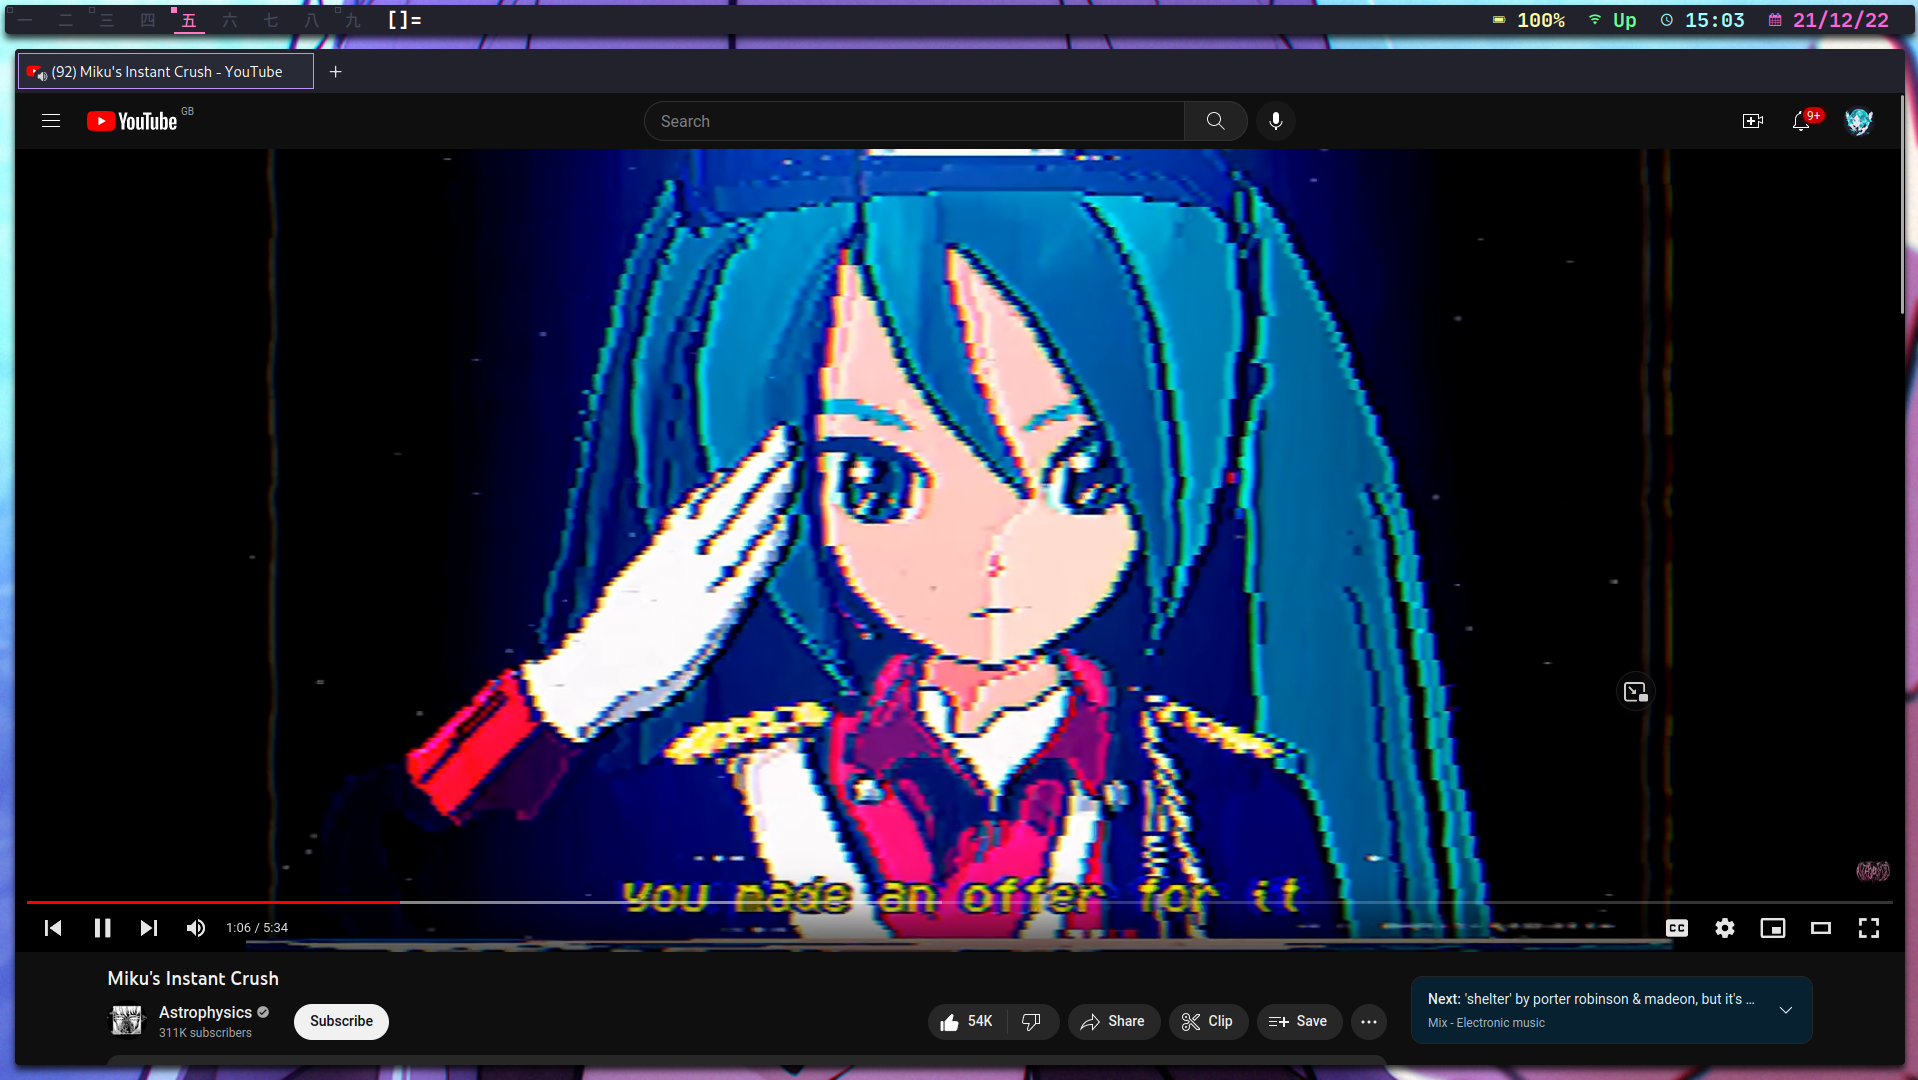
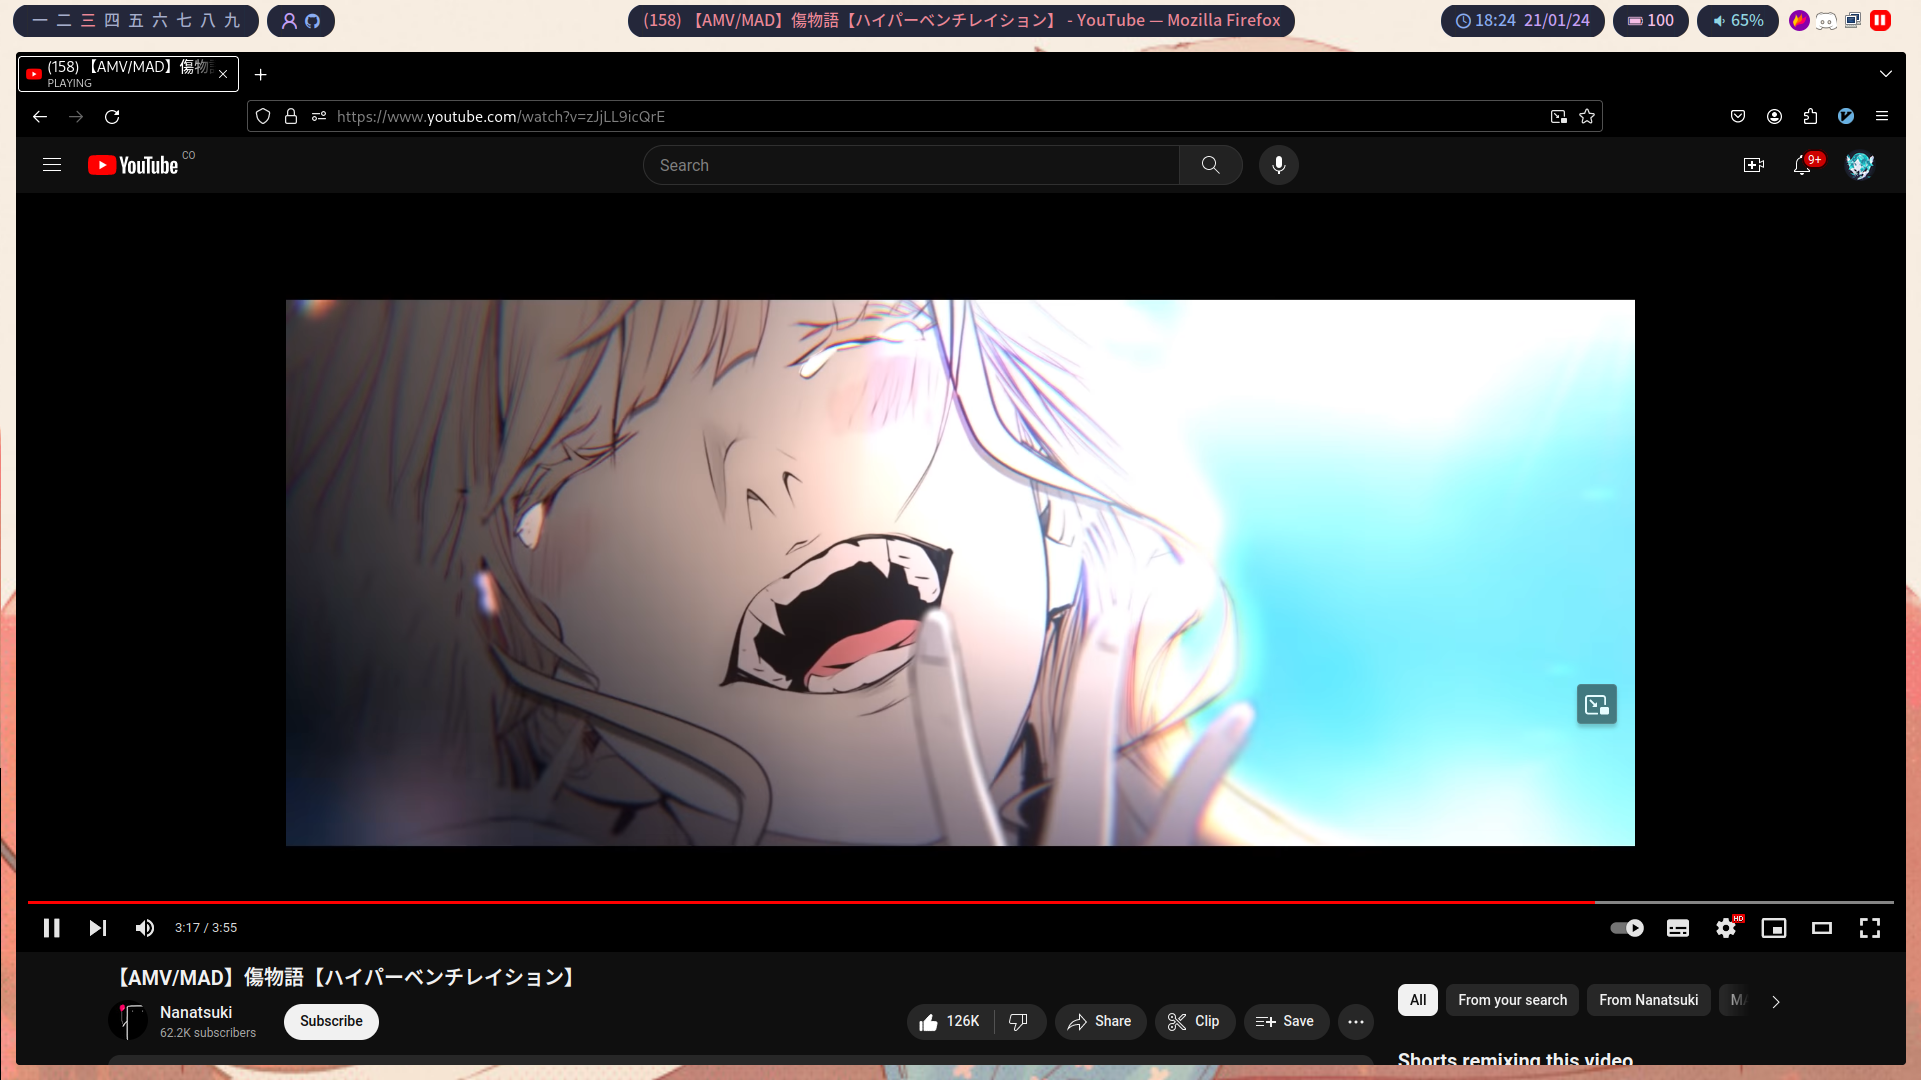
feat: update screenshots & readme

diff --git a/README.md b/README.md
@@ -12,13 +12,9 @@
 | Editor			| [nvim](https://neovim.io/) |
 | File Manager		| [nnn](https://github.com/jarun/nnn) |
 | Terminal Emulator	| [kitty](https://sw.kovidgoyal.net/kitty/) |
-| Web Browser		| [chromium](https://www.chromium.org/chromium-projects/) |
+| Web Browser		| [firefox](https://www.mozilla.org/en-US/firefox/new/) |
 | AUR Helper		| yay |
 | Window Manager	| [dwm](https://dwm.suckless.org/) |
 | Images			| [feh](https://feh.finalrewind.org/)       |
 | Audio				| [pulseaudio](https://www.freedesktop.org/wiki/Software/PulseAudio/) - [pavucontrol](https://freedesktop.org/software/pulseaudio/pavucontrol/) -  spotify|
 | Notifications		| dunst |
-
-## Maybe
-- [x] Remove title
-  - with [dwm/notitle](https://dwm.suckless.org/patches/notitle/)
